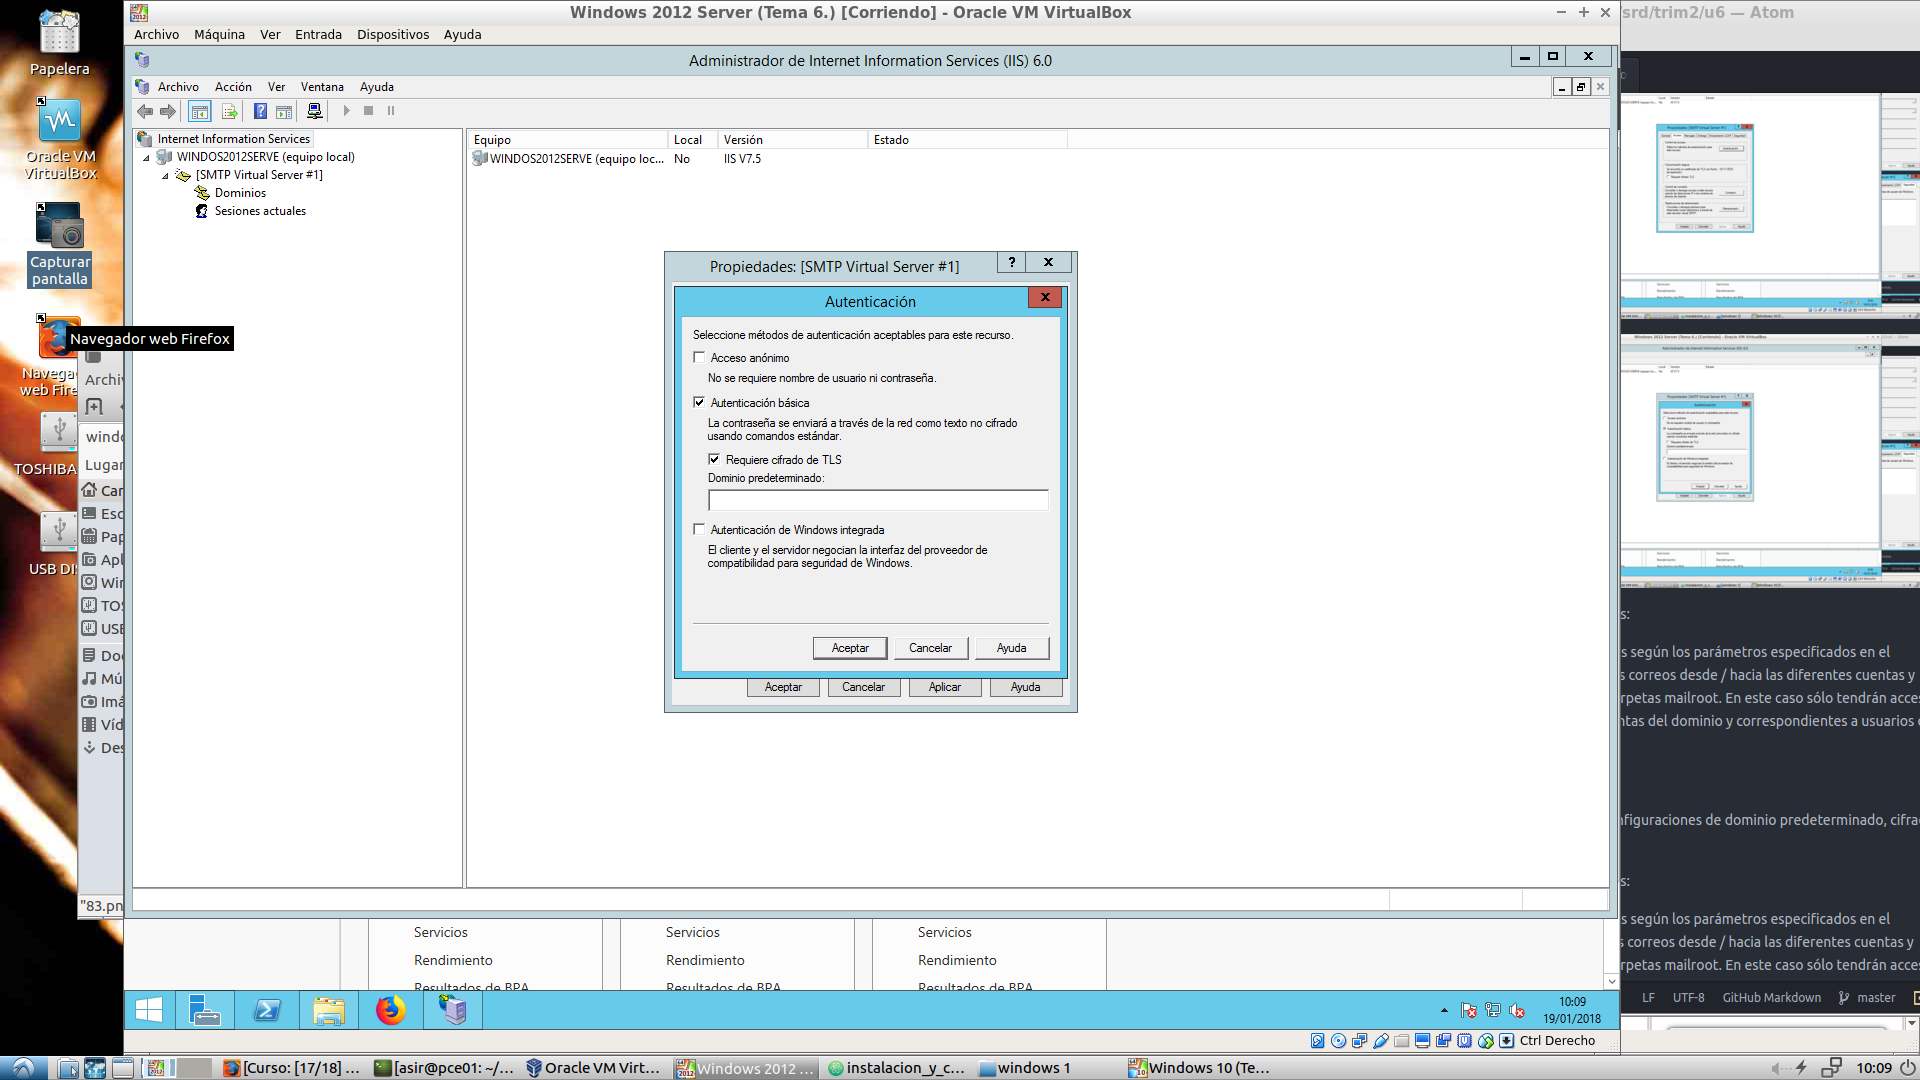
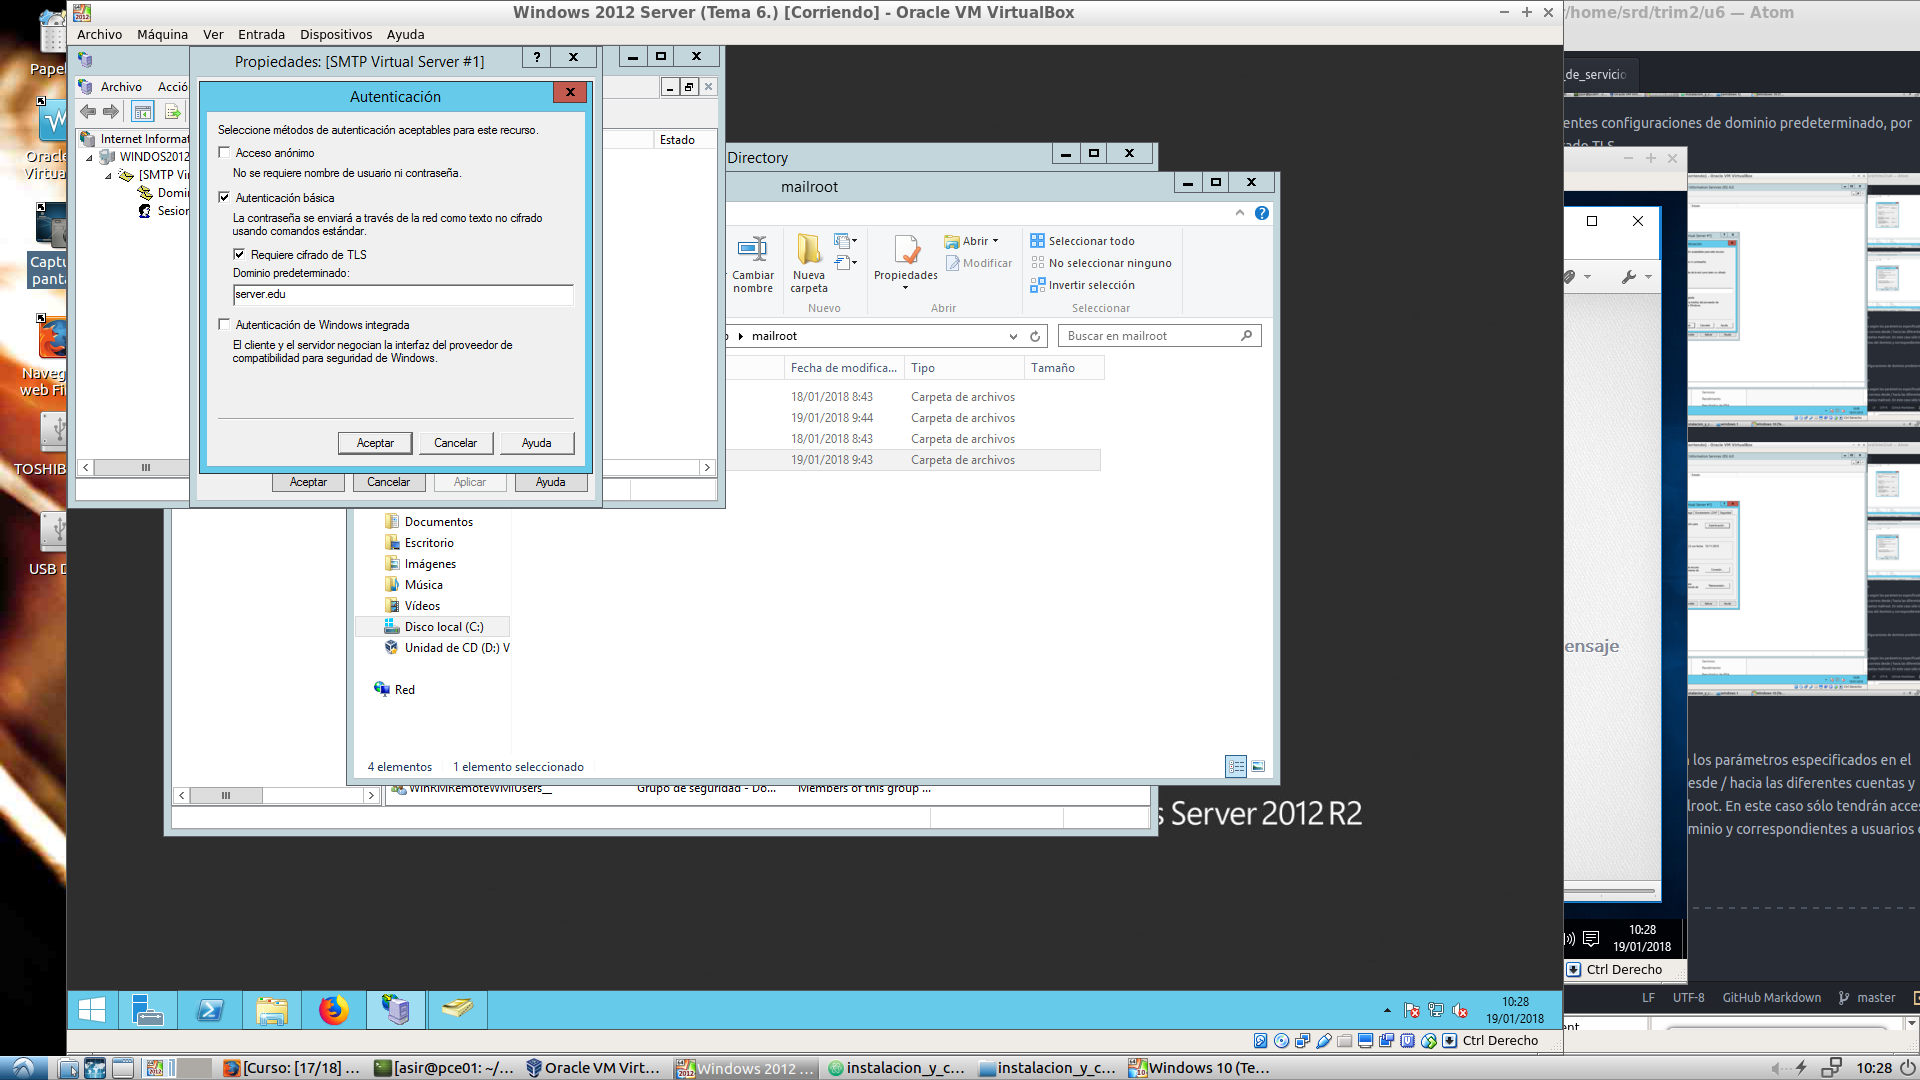
Final Parte 1

diff --git a/trim2/u6/instalacion_y_configuracion_de_servicios_de_correo_electronico_windows.md b/trim2/u6/instalacion_y_configuracion_de_servicios_de_correo_electronico_windows.md
@@ -228,6 +228,14 @@ Realizamos la configuración en las propiedades de SMTP.
 
     * En el Cliente Windows:
 
-      Configuramos las cuentas según los parámetros especificados en el Servidor. Enviar varios correos desde / hacia las diferentes cuentas y comprobar envío y carpetas mailroot. En este caso sólo tendrán acceso al servidor SMTP cuentas del dominio y correspondientes a usuarios de AD.
+      Configuramos las cuentas según los parámetros especificados en el Servidor.
+
+        ![imagen85](./images/instalacion_y_configuracion_de_servicios_de_correo_electronico_windows/85.png)
+
+        ![imagen86](./images/instalacion_y_configuracion_de_servicios_de_correo_electronico_windows/86.png)
+
+      Enviamos varios correos desde / hacia las diferentes cuentas y comprobar envío y carpetas mailroot. En este caso sólo tendrán acceso al servidor SMTP cuentas del dominio y correspondientes a usuarios de AD.
+
+
 
 ---
